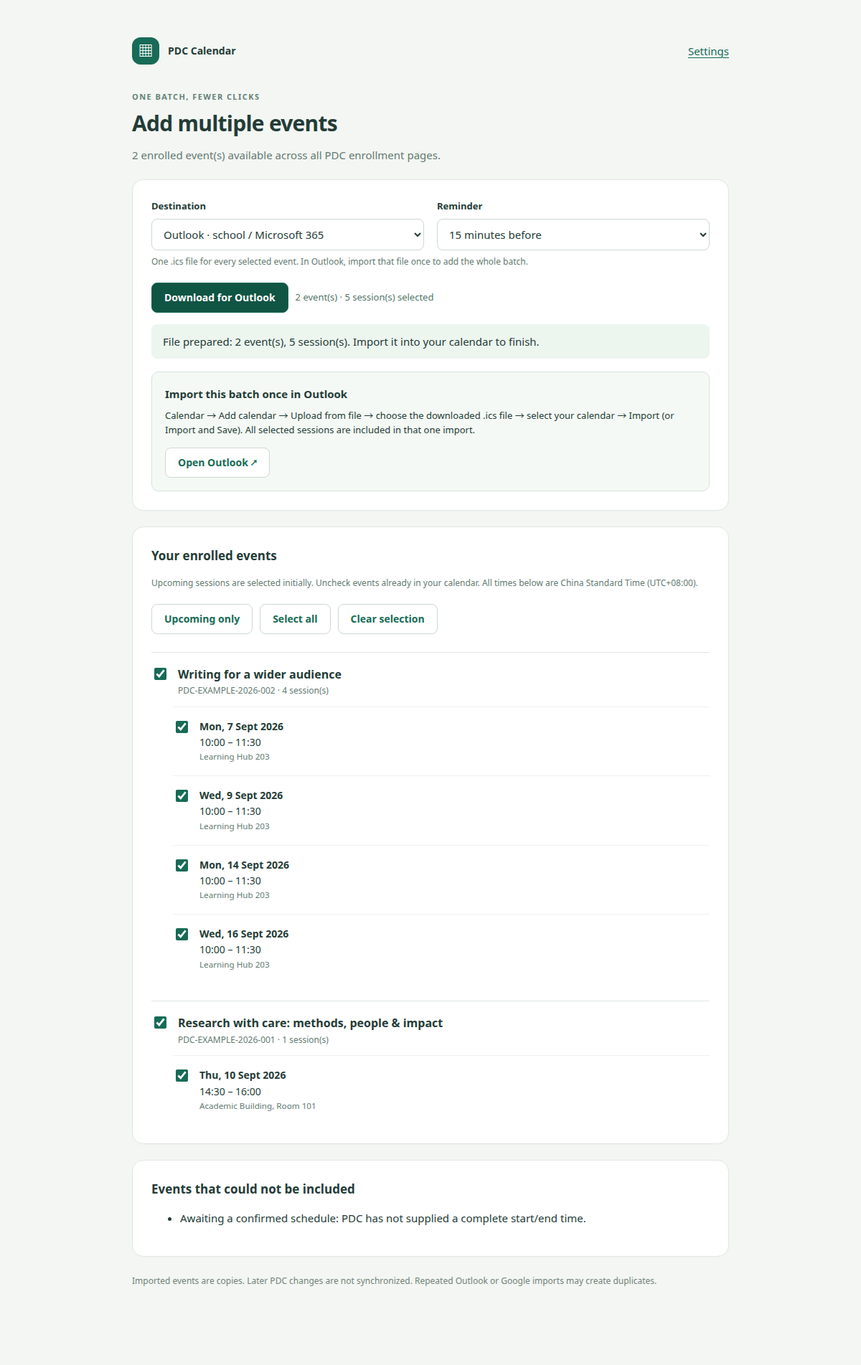
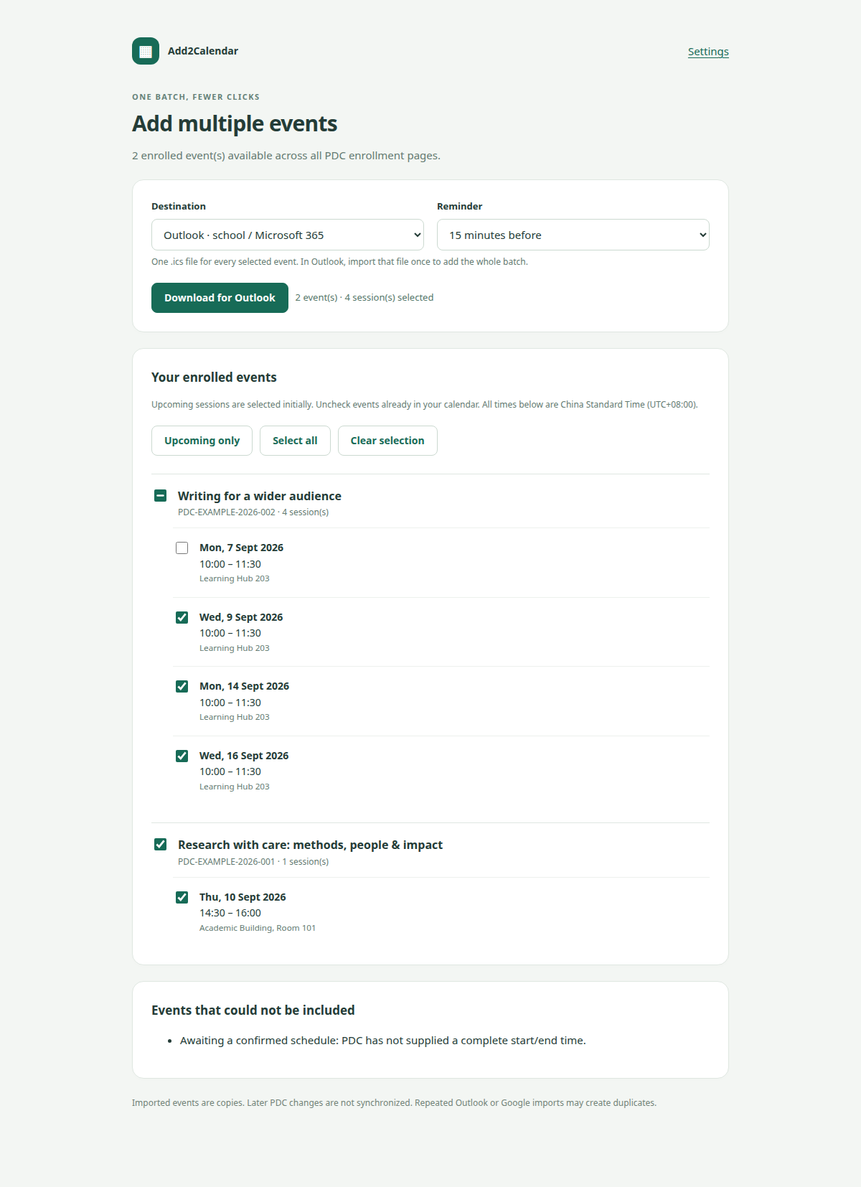
refactor(brand): rename to Add2Calendar

diff --git a/site/zh/index.html b/site/zh/index.html
@@ -4,8 +4,8 @@
     <meta charset="utf-8" />
     <meta name="viewport" content="width=device-width, initial-scale=1" />
     <meta name="theme-color" content="#f7f4ee" />
-    <meta name="description" content="将香港科技大学（广州）PDC 活动添加到 Outlook、Google 日历、Nextcloud 或 iCalendar 文件。" />
-    <title>PDC · 添加到日历</title>
+    <meta name="description" content="Add2Calendar 是香港科技大学（广州）的日历导出扩展，目前支持已报名的 PDC 活动。" />
+    <title>Add2Calendar · 香港科技大学（广州）</title>
     <link rel="icon" href="/assets/favicon.svg" type="image/svg+xml" />
     <link rel="stylesheet" href="/assets/site.css" />
     <link rel="alternate" hreflang="en" href="/" />
@@ -16,16 +16,16 @@
     <a class="skip-link" href="#main">跳到主要内容</a>
 
     <header class="site-header">
-      <a class="brand" href="/zh/" aria-label="PDC 添加到日历首页">
+      <a class="brand" href="/zh/" aria-label="Add2Calendar 首页">
         <span class="brand-mark" aria-hidden="true">
           <svg viewBox="0 0 32 32"><rect x="4" y="6" width="24" height="22" rx="6" /><path d="M4 13h24M10 3v6M22 3v6M11 18h4v4h-4zM19 18h4v4h-4z" /></svg>
         </span>
-        <span>PDC <span class="brand-muted">· 添加到日历</span></span>
+        <span>Add2Calendar <span class="brand-muted">· 香港科技大学（广州）</span></span>
       </a>
       <nav aria-label="主要导航">
         <a href="#how-it-works">使用方法</a>
         <a href="#calendars">支持的日历</a>
-        <a href="https://github.com/LueApp/pdc-calendar-extension" target="_blank" rel="noopener noreferrer">GitHub</a>
+        <a href="https://github.com/LueApp/add2calendar" target="_blank" rel="noopener noreferrer">GitHub</a>
         <a class="language-link" href="/" lang="en" hreflang="en">English</a>
       </nav>
     </header>
@@ -33,15 +33,15 @@
     <main id="main">
       <section class="hero" aria-labelledby="hero-title">
         <div class="hero-copy">
-          <p class="eyebrow"><span></span> 为香港科技大学（广州）打造的小型 Chrome 扩展</p>
-          <h1 id="hero-title">几次点击，将 PDC 活动加入你的日历。</h1>
+          <p class="eyebrow"><span></span> 香港科技大学（广州）日历导出工具</p>
+          <h1 id="hero-title">把校园活动放进你每天都会看的日历。</h1>
           <p class="hero-lede">把已报名的讲座添加到 Outlook、Google 日历、Nextcloud 或 <code>.ics</code> 文件——单个添加或批量导出都可以。</p>
           <div class="hero-actions">
-            <a class="button button-primary" href="/downloads/pdc-calendar-0.2.0.zip" download>
+            <a class="button button-primary" href="/downloads/add2calendar-0.2.0.zip" download>
               <svg viewBox="0 0 24 24" aria-hidden="true"><path d="M12 3v12m0 0 5-5m-5 5-5-5M5 21h14" /></svg>
               下载 v0.2.0
             </a>
-            <a class="button button-secondary" href="https://github.com/LueApp/pdc-calendar-extension" target="_blank" rel="noopener noreferrer">在 GitHub 查看 <span aria-hidden="true">↗</span></a>
+            <a class="button button-secondary" href="https://github.com/LueApp/add2calendar" target="_blank" rel="noopener noreferrer">在 GitHub 查看 <span aria-hidden="true">↗</span></a>
           </div>
           <ul class="hero-facts" aria-label="运行要求和项目信息"><li>Chrome 120+</li><li>无需注册账号</li><li>MIT 开源许可</li></ul>
         </div>
@@ -76,7 +76,7 @@
       </section>
 
       <section class="preview-section section" aria-labelledby="preview-title">
-        <div class="preview-frame"><img src="/assets/batch-preview.png" alt="批量活动预览，显示两个虚构研讨会和 Outlook 导入选项" loading="lazy" width="1260" height="840" /></div>
+        <div class="preview-frame"><img src="/assets/batch-preview.png" alt="批量活动预览，显示两个虚构研讨会和 Outlook 导入选项" loading="lazy" width="1200" height="1654" /></div>
         <div class="preview-copy">
           <p class="eyebrow"><span></span> 批量导出</p><h2 id="preview-title">把一周的活动都带走。</h2>
           <p>选择需要的活动和场次，再生成一个整洁的日历文件。每个活动会保留自己的名称、时间、地点、讲者和 PDC 来源链接。</p>
@@ -97,17 +97,17 @@
       </section>
 
       <section class="download-section" aria-labelledby="download-title">
-        <div><p class="eyebrow light"><span></span> 版本 0.2.0</p><h2 id="download-title">让下一场 PDC 活动出现在你的日历里。</h2><p>免费、开源，为香港科技大学（广州）学生打造。</p></div>
+        <div><p class="eyebrow light"><span></span> 版本 0.2.0</p><h2 id="download-title">让下一场校园活动出现在你的日历里。</h2><p>免费、开源，为香港科技大学（广州）学生打造。</p></div>
         <div class="download-actions">
-          <a class="button button-light" href="/downloads/pdc-calendar-0.2.0.zip" download><svg viewBox="0 0 24 24" aria-hidden="true"><path d="M12 3v12m0 0 5-5m-5 5-5-5M5 21h14" /></svg>下载扩展</a>
-          <a href="https://github.com/LueApp/pdc-calendar-extension/releases" target="_blank" rel="noopener noreferrer">查看全部版本 ↗</a>
+          <a class="button button-light" href="/downloads/add2calendar-0.2.0.zip" download><svg viewBox="0 0 24 24" aria-hidden="true"><path d="M12 3v12m0 0 5-5m-5 5-5-5M5 21h14" /></svg>下载扩展</a>
+          <a href="https://github.com/LueApp/add2calendar/releases" target="_blank" rel="noopener noreferrer">查看全部版本 ↗</a>
         </div>
       </section>
     </main>
 
     <footer>
       <a class="footer-brand" href="https://lue-app.com/" target="_blank" rel="me noopener noreferrer"><span class="footer-mark">L</span><span><strong>看看 Lue 的其他作品</strong><small>为日常工作做一些小工具。</small></span><span aria-hidden="true">↗</span></a>
-      <div class="footer-links"><a href="https://github.com/LueApp/pdc-calendar-extension" target="_blank" rel="noopener noreferrer">GitHub</a><a href="https://github.com/LueApp/pdc-calendar-extension/blob/main/PRIVACY.zh-CN.md" target="_blank" rel="noopener noreferrer">隐私说明</a><a href="https://github.com/LueApp/pdc-calendar-extension/issues" target="_blank" rel="noopener noreferrer">反馈问题</a></div>
+      <div class="footer-links"><a href="https://github.com/LueApp/add2calendar" target="_blank" rel="noopener noreferrer">GitHub</a><a href="https://github.com/LueApp/add2calendar/blob/main/PRIVACY.zh-CN.md" target="_blank" rel="noopener noreferrer">隐私说明</a><a href="https://github.com/LueApp/add2calendar/issues" target="_blank" rel="noopener noreferrer">反馈问题</a></div>
     </footer>
   </body>
 </html>

diff --git a/site/index.html b/site/index.html
@@ -6,9 +6,9 @@
     <meta name="theme-color" content="#f7f4ee" />
     <meta
       name="description"
-      content="Add HKUST(GZ) PDC seminars to Outlook, Google Calendar, Nextcloud, or an iCalendar file."
+      content="Add2Calendar is a focused calendar export extension for HKUST(GZ), with support for enrolled PDC events."
     />
-    <title>PDC · Add to Calendar</title>
+    <title>Add2Calendar · HKUST(GZ)</title>
     <link rel="icon" href="/assets/favicon.svg" type="image/svg+xml" />
     <link rel="stylesheet" href="/assets/site.css" />
     <link rel="alternate" hreflang="en" href="/" />
@@ -19,19 +19,19 @@
     <a class="skip-link" href="#main">Skip to content</a>
 
     <header class="site-header">
-      <a class="brand" href="/" aria-label="PDC Add to Calendar home">
+      <a class="brand" href="/" aria-label="Add2Calendar home">
         <span class="brand-mark" aria-hidden="true">
           <svg viewBox="0 0 32 32">
             <rect x="4" y="6" width="24" height="22" rx="6" />
             <path d="M4 13h24M10 3v6M22 3v6M11 18h4v4h-4zM19 18h4v4h-4z" />
           </svg>
         </span>
-        <span>PDC <span class="brand-muted">· Add to Calendar</span></span>
+        <span>Add2Calendar <span class="brand-muted">· HKUST(GZ)</span></span>
       </a>
       <nav aria-label="Primary navigation">
         <a href="#how-it-works">How it works</a>
         <a href="#calendars">Calendars</a>
-        <a href="https://github.com/LueApp/pdc-calendar-extension" target="_blank" rel="noopener noreferrer">GitHub</a>
+        <a href="https://github.com/LueApp/add2calendar" target="_blank" rel="noopener noreferrer">GitHub</a>
         <a class="language-link" href="/zh/" lang="zh-CN" hreflang="zh-CN">中文</a>
       </nav>
     </header>
@@ -39,17 +39,17 @@
     <main id="main">
       <section class="hero" aria-labelledby="hero-title">
         <div class="hero-copy">
-          <p class="eyebrow"><span></span> A small Chrome extension for HKUST(GZ)</p>
-          <h1 id="hero-title">From PDC to your calendar, in a few clicks.</h1>
+          <p class="eyebrow"><span></span> Calendar export for HKUST(GZ)</p>
+          <h1 id="hero-title">Keep campus events where you’ll actually see them.</h1>
           <p class="hero-lede">
             Add enrolled seminars to Outlook, Google Calendar, Nextcloud, or an <code>.ics</code> file—one at a time or in a batch.
           </p>
           <div class="hero-actions">
-            <a class="button button-primary" href="/downloads/pdc-calendar-0.2.0.zip" download>
+            <a class="button button-primary" href="/downloads/add2calendar-0.2.0.zip" download>
               <svg viewBox="0 0 24 24" aria-hidden="true"><path d="M12 3v12m0 0 5-5m-5 5-5-5M5 21h14" /></svg>
               Download v0.2.0
             </a>
-            <a class="button button-secondary" href="https://github.com/LueApp/pdc-calendar-extension" target="_blank" rel="noopener noreferrer">
+            <a class="button button-secondary" href="https://github.com/LueApp/add2calendar" target="_blank" rel="noopener noreferrer">
               View on GitHub <span aria-hidden="true">↗</span>
             </a>
           </div>
@@ -120,7 +120,7 @@
 
       <section class="preview-section section" aria-labelledby="preview-title">
         <div class="preview-frame">
-          <img src="/assets/batch-preview.png" alt="Batch event preview showing two fictional seminars and Outlook import options" loading="lazy" width="1260" height="840" />
+          <img src="/assets/batch-preview.png" alt="Batch event preview showing two fictional seminars and Outlook import options" loading="lazy" width="1200" height="1654" />
         </div>
         <div class="preview-copy">
           <p class="eyebrow"><span></span> Batch export</p>
@@ -155,15 +155,15 @@
       <section class="download-section" aria-labelledby="download-title">
         <div>
           <p class="eyebrow light"><span></span> Version 0.2.0</p>
-          <h2 id="download-title">Put your next PDC event where you’ll see it.</h2>
+          <h2 id="download-title">Put your next campus event where you’ll see it.</h2>
           <p>Free, open source, and built for HKUST(GZ) students.</p>
         </div>
         <div class="download-actions">
-          <a class="button button-light" href="/downloads/pdc-calendar-0.2.0.zip" download>
+          <a class="button button-light" href="/downloads/add2calendar-0.2.0.zip" download>
             <svg viewBox="0 0 24 24" aria-hidden="true"><path d="M12 3v12m0 0 5-5m-5 5-5-5M5 21h14" /></svg>
             Download extension
           </a>
-          <a href="https://github.com/LueApp/pdc-calendar-extension/releases" target="_blank" rel="noopener noreferrer">All releases ↗</a>
+          <a href="https://github.com/LueApp/add2calendar/releases" target="_blank" rel="noopener noreferrer">All releases ↗</a>
         </div>
       </section>
     </main>
@@ -175,9 +175,9 @@
         <span aria-hidden="true">↗</span>
       </a>
       <div class="footer-links">
-        <a href="https://github.com/LueApp/pdc-calendar-extension" target="_blank" rel="noopener noreferrer">GitHub</a>
-        <a href="https://github.com/LueApp/pdc-calendar-extension/blob/main/PRIVACY.md" target="_blank" rel="noopener noreferrer">Privacy</a>
-        <a href="https://github.com/LueApp/pdc-calendar-extension/issues" target="_blank" rel="noopener noreferrer">Report an issue</a>
+        <a href="https://github.com/LueApp/add2calendar" target="_blank" rel="noopener noreferrer">GitHub</a>
+        <a href="https://github.com/LueApp/add2calendar/blob/main/PRIVACY.md" target="_blank" rel="noopener noreferrer">Privacy</a>
+        <a href="https://github.com/LueApp/add2calendar/issues" target="_blank" rel="noopener noreferrer">Report an issue</a>
       </div>
     </footer>
   </body>

diff --git a/extension/options.html b/extension/options.html
@@ -1,7 +1,7 @@
 <!doctype html>
-<html lang="en"><head><meta charset="utf-8"><meta name="viewport" content="width=device-width,initial-scale=1"><title>Settings · PDC Calendar</title><link rel="stylesheet" href="styles.css"></head>
+<html lang="en"><head><meta charset="utf-8"><meta name="viewport" content="width=device-width,initial-scale=1"><title>Settings · Add2Calendar</title><link rel="stylesheet" href="styles.css"></head>
 <body><main>
-  <header><div class="brand"><span class="mark" aria-hidden="true">▦</span>PDC Calendar</div><a href="https://pdc.hkust-gz.edu.cn/enrollment-records" target="_blank" rel="noopener">Open PDC ↗</a></header>
+  <header><div class="brand"><span class="mark" aria-hidden="true">▦</span>Add2Calendar</div><a href="https://pdc.hkust-gz.edu.cn/enrollment-records" target="_blank" rel="noopener">Open PDC ↗</a></header>
   <p class="eyebrow">Your calendar, your choice</p><h1>A place for your next seminar.</h1>
   <p class="muted">Sign into PDC as usual. An “Add to calendar” button will appear beside your enrolled events. Choose where to save each event.</p>
   <section class="card"><h2>Default preferences</h2><div class="grid">
@@ -12,7 +12,7 @@
     <p class="muted">Save directly to a calendar you own or can edit. Each person can use their own Nextcloud server.</p>
     <form id="nextcloud-form">
       <div class="field"><label for="calendar-url">Private calendar URL</label><input id="calendar-url" type="url" required placeholder="https://cloud.example.com/remote.php/dav/calendars/username/pdc-seminars/" autocomplete="off"><p class="help">In Nextcloud Calendar, open the ⋯ menu beside your target calendar and copy its private link. Use the link for that calendar, not a public share or the general Calendar page.</p></div>
-      <div class="grid"><div class="field"><label for="username">Nextcloud username</label><input id="username" required autocomplete="off" spellcheck="false"></div><div class="field"><label for="app-password">Nextcloud app password</label><input id="app-password" type="password" autocomplete="new-password" placeholder="Create in Nextcloud → Settings → Security"><p class="help" id="password-help">Use a separate app password for PDC Calendar.</p></div></div>
+      <div class="grid"><div class="field"><label for="username">Nextcloud username</label><input id="username" required autocomplete="off" spellcheck="false"></div><div class="field"><label for="app-password">Nextcloud app password</label><input id="app-password" type="password" autocomplete="new-password" placeholder="Create in Nextcloud → Settings → Security"><p class="help" id="password-help">Use a separate app password for Add2Calendar.</p></div></div>
       <p class="help">Chrome will ask for access only to the Nextcloud server you enter. The app password is stored locally in this extension and is not synced to your Google account or exposed to the PDC page.</p>
       <div class="actions"><button type="submit" id="connect">Save Nextcloud connection</button><button type="button" id="disconnect" class="secondary">Forget connection</button></div>
     </form>

diff --git a/extension/event.html b/extension/event.html
@@ -1,7 +1,7 @@
 <!doctype html>
-<html lang="en"><head><meta charset="utf-8"><meta name="viewport" content="width=device-width,initial-scale=1"><title>Add to calendar · PDC</title><link rel="stylesheet" href="styles.css"></head>
+<html lang="en"><head><meta charset="utf-8"><meta name="viewport" content="width=device-width,initial-scale=1"><title>Add to calendar · Add2Calendar</title><link rel="stylesheet" href="styles.css"></head>
 <body><main>
-  <header><div class="brand"><span class="mark" aria-hidden="true">▦</span>PDC Calendar</div><a href="options.html" target="_blank" rel="noopener">Settings</a></header>
+  <header><div class="brand"><span class="mark" aria-hidden="true">▦</span>Add2Calendar</div><a href="options.html" target="_blank" rel="noopener">Settings</a></header>
   <p class="eyebrow">Make time for learning</p><h1 id="title">Preparing your event…</h1><p class="muted" id="subtitle">Loading seminar details from PDC.</p>
   <div id="content" hidden>
     <section class="card"><div class="grid">

diff --git a/extension/batch.html b/extension/batch.html
@@ -1,7 +1,7 @@
 <!doctype html>
-<html lang="en"><head><meta charset="utf-8"><meta name="viewport" content="width=device-width,initial-scale=1"><title>Add multiple events · PDC</title><link rel="stylesheet" href="styles.css"></head>
+<html lang="en"><head><meta charset="utf-8"><meta name="viewport" content="width=device-width,initial-scale=1"><title>Add multiple events · Add2Calendar</title><link rel="stylesheet" href="styles.css"></head>
 <body><main>
-  <header><div class="brand"><span class="mark" aria-hidden="true">▦</span>PDC Calendar</div><a href="options.html" target="_blank" rel="noopener">Settings</a></header>
+  <header><div class="brand"><span class="mark" aria-hidden="true">▦</span>Add2Calendar</div><a href="options.html" target="_blank" rel="noopener">Settings</a></header>
   <p class="eyebrow">One batch, fewer clicks</p><h1>Add multiple events</h1><p class="muted" id="subtitle">Loading your enrollments…</p>
   <div id="content" hidden>
     <section class="card"><div class="grid">

diff --git a/extension/batch.js b/extension/batch.js
@@ -57,7 +57,7 @@ async function add() {
   if (provider !== 'nextcloud') {
     const count = entries.reduce((n, entry) => n + entry.sessions.length, 0);
     const url = URL.createObjectURL(new Blob([makeCalendarICS(entries, reminder)], { type: 'text/calendar;charset=utf-8' }));
-    const link = document.createElement('a'); link.href = url; link.download = `PDC-events-${new Date().toISOString().slice(0, 10)}.ics`; link.click();
+    const link = document.createElement('a'); link.href = url; link.download = `Add2Calendar-events-${new Date().toISOString().slice(0, 10)}.ics`; link.click();
     setTimeout(() => URL.revokeObjectURL(url), 30000);
     status(`File prepared: ${entries.length} event(s), ${count} session(s). Import it into your calendar to finish.`);
     showImportGuide(provider);

diff --git a/extension/options.js b/extension/options.js
@@ -15,7 +15,7 @@ async function load() {
   $('calendar-url').value = saved?.calendarUrl || '';
   $('username').value = saved?.username || '';
   $('app-password').value = '';
-  $('password-help').textContent = saved?.appPassword ? 'An app password is saved. Leave blank to keep it for this same server and username.' : 'Use a separate app password for PDC Calendar.';
+  $('password-help').textContent = saved?.appPassword ? 'An app password is saved. Leave blank to keep it for this same server and username.' : 'Use a separate app password for Add2Calendar.';
   $('disconnect').disabled = !saved;
 }
 

diff --git a/scripts/package.py b/scripts/package.py
@@ -4,7 +4,7 @@ import json
 
 root = Path(__file__).resolve().parent.parent
 version = json.loads((root / 'extension' / 'manifest.json').read_text())['version']
-target = root / 'dist' / f'pdc-calendar-{version}.zip'
+target = root / 'dist' / f'add2calendar-{version}.zip'
 target.parent.mkdir(exist_ok=True)
 with ZipFile(target, 'w', ZIP_DEFLATED) as archive:
     for file in sorted((root / 'extension').rglob('*')):

diff --git a/README.zh-CN.md b/README.zh-CN.md
@@ -1,10 +1,10 @@
-# PDC · 添加到日历
+# Add2Calendar
 
 [English](README.md) | **简体中文**
 
-这是一个用于[香港科技大学（广州）PDC 系统](https://pdc.hkust-gz.edu.cn/enrollment-records)的 Chrome 扩展。它提供 **Add to calendar（添加到日历）** 和 **Add multiple events（批量添加活动）** 按钮，将已报名的讲座、研讨会等活动加入 Outlook、Google 日历、Nextcloud，或导出为 `.ics` 日历文件。
+**香港科技大学（广州）的日历导出工具。** Add2Calendar 是一个 Chrome 扩展，帮助你把校园安排放进日常使用的日历。目前它会在 [PDC 系统](https://pdc.hkust-gz.edu.cn/enrollment-records)中添加 **Add to calendar（添加到日历）** 和 **Add multiple events（批量添加活动）** 按钮，将已报名的讲座、研讨会等活动加入 Outlook、Google 日历、Nextcloud，或导出为 `.ics` 文件。
 
-**[下载 v0.2.0](https://github.com/LueApp/pdc-calendar-extension/releases/download/v0.2.0/pdc-calendar-0.2.0.zip)** · [全部版本](https://github.com/LueApp/pdc-calendar-extension/releases) · [反馈问题](https://github.com/LueApp/pdc-calendar-extension/issues)
+**[下载最新版本](https://github.com/LueApp/add2calendar/releases/latest)** · [全部版本](https://github.com/LueApp/add2calendar/releases) · [反馈问题](https://github.com/LueApp/add2calendar/issues)
 
 ## 项目网站
 
@@ -35,7 +35,7 @@ npm run site:build
 
 需要 **Google Chrome 120 或更新版本**。普通使用者不需要安装 Node.js、Python，也不需要部署服务器。
 
-1. 从 [Releases 发布页面](https://github.com/LueApp/pdc-calendar-extension/releases/latest)下载 **`pdc-calendar-0.2.0.zip`**，解压到一个以后不会随意移动的文件夹。
+1. 从 [Releases 发布页面](https://github.com/LueApp/add2calendar/releases/latest)下载扩展 ZIP，解压到一个以后不会随意移动的文件夹。
 2. 在 Chrome 地址栏打开 `chrome://extensions`，开启右上角的**开发者模式**。
 3. 点击**加载已解压的扩展程序**，选择**直接包含 `manifest.json` 的文件夹**。
 4. 刷新 PDC 标签页，并正常登录。
@@ -43,7 +43,7 @@ npm run site:build
 
 | 下载方式 | 在 Chrome 中应选择的目录 |
 | --- | --- |
-| Release 附件 `pdc-calendar-0.2.0.zip` | 解压后的文件夹，其根目录直接包含 `manifest.json` |
+| Release 附件（`.zip`） | 解压后的文件夹，其根目录直接包含 `manifest.json` |
 | GitHub 的 **Code → Download ZIP**，或 `git clone` | 源码目录内的 `extension` 子文件夹 |
 
 **“清单文件缺失或不可读取”**表示 Chrome 无法在所选目录中直接找到 `manifest.json`。不要选择 ZIP 文件本身，也不要选择它的上一级目录。早期 v0.1.0 压缩包多包含了一层 `extension` 子文件夹。
@@ -81,7 +81,7 @@ npm run site:build
    https://cloud.example.com/remote.php/dav/calendars/USERNAME/CALENDAR/
    ```
 
-3. 在 Nextcloud 的**设置 → 安全**中创建名为 **PDC Calendar** 的应用密码。
+3. 在 Nextcloud 的**设置 → 安全**中创建名为 **Add2Calendar** 的应用密码。
 4. 通过扩展工具栏图标或预览中的 **Settings（设置）** 打开配置页，填写日历私有链接、Nextcloud 用户名和应用密码。
 5. 点击 **Save Nextcloud connection（保存 Nextcloud 连接）**，并允许 Chrome 访问所填写的服务器。
 6. 在单个活动或批量预览中选择 **Nextcloud**，勾选场次并点击添加按钮。
@@ -129,8 +129,8 @@ npm run site:build
 扩展本身没有运行时依赖，也不需要构建。开发环境需要 **Node.js 22+**、**npm** 和 **Python 3**；Playwright 仅用于浏览器测试。
 
 ```sh
-git clone https://github.com/LueApp/pdc-calendar-extension.git
-cd pdc-calendar-extension
+git clone https://github.com/LueApp/add2calendar.git
+cd add2calendar
 npm ci
 npm test
 npx playwright install chromium

diff --git a/README.md b/README.md
@@ -1,10 +1,10 @@
-# PDC · Add to Calendar
+# Add2Calendar
 
 **English** | [简体中文](README.zh-CN.md)
 
-A Chrome extension that adds **Add to calendar** and **Add multiple events** buttons to the [HKUST(GZ) PDC system](https://pdc.hkust-gz.edu.cn/enrollment-records). Add enrolled seminars to Outlook, Google Calendar, Nextcloud, or an `.ics` calendar file.
+**Calendar export for HKUST(GZ).** Add2Calendar is a Chrome extension that brings campus schedules to the calendar you already use. It currently adds **Add to calendar** and **Add multiple events** buttons to the [PDC system](https://pdc.hkust-gz.edu.cn/enrollment-records), letting you export enrolled seminars to Outlook, Google Calendar, Nextcloud, or an `.ics` file.
 
-**[Download v0.2.0](https://github.com/LueApp/pdc-calendar-extension/releases/download/v0.2.0/pdc-calendar-0.2.0.zip)** · [All releases](https://github.com/LueApp/pdc-calendar-extension/releases) · [Report an issue](https://github.com/LueApp/pdc-calendar-extension/issues)
+**[Download the latest release](https://github.com/LueApp/add2calendar/releases/latest)** · [All releases](https://github.com/LueApp/add2calendar/releases) · [Report an issue](https://github.com/LueApp/add2calendar/issues)
 
 ## Website
 
@@ -35,7 +35,7 @@ The deployable site is written to `web-dist/` and includes the current extension
 
 Requires **Google Chrome 120+**. No Node.js, Python, or server is needed for normal use.
 
-1. Download **`pdc-calendar-0.2.0.zip`** from [Releases](https://github.com/LueApp/pdc-calendar-extension/releases/latest) and extract it into a permanent folder.
+1. Download the extension ZIP from [Releases](https://github.com/LueApp/add2calendar/releases/latest) and extract it into a permanent folder.
 2. Open `chrome://extensions` in Chrome and enable **Developer mode**.
 3. Click **Load unpacked**. Select the folder that **directly contains `manifest.json`**.
 4. Reload PDC and sign in normally.
@@ -43,7 +43,7 @@ Requires **Google Chrome 120+**. No Node.js, Python, or server is needed for nor
 
 | How you downloaded it | Folder to select in Chrome |
 | --- | --- |
-| Release asset `pdc-calendar-0.2.0.zip` | The extracted folder; `manifest.json` is at its root |
+| Release asset (`.zip`) | The extracted folder; `manifest.json` is at its root |
 | GitHub **Code → Download ZIP**, or `git clone` | The `extension` subfolder inside the source checkout |
 
 **“Manifest file is missing or unreadable”** means Chrome cannot find `manifest.json` directly inside the selected folder. Do not select the ZIP itself or a parent folder. Early v0.1.0 ZIPs used an extra `extension` subfolder.
@@ -81,7 +81,7 @@ Each person uses their own account. Outlook and Google sign-in happens on their 
    https://cloud.example.com/remote.php/dav/calendars/USERNAME/CALENDAR/
    ```
 
-3. In Nextcloud **Settings → Security**, create an app password named **PDC Calendar**.
+3. In Nextcloud **Settings → Security**, create an app password named **Add2Calendar**.
 4. Open the extension’s **Settings** from its toolbar icon or preview. Enter the private calendar URL, Nextcloud username, and app password.
 5. Click **Save Nextcloud connection** and allow Chrome access to that server.
 6. In an event or batch preview, choose **Nextcloud**, select sessions, and click Add.
@@ -129,8 +129,8 @@ When reporting an issue, include the extension version and error text. Remove to
 The extension has no runtime dependencies or build step. Development uses **Node.js 22+**, **npm**, and **Python 3**. Playwright is used only for browser tests.
 
 ```sh
-git clone https://github.com/LueApp/pdc-calendar-extension.git
-cd pdc-calendar-extension
+git clone https://github.com/LueApp/add2calendar.git
+cd add2calendar
 npm ci
 npm test
 npx playwright install chromium

diff --git a/docs/releases/v0.2.0.md b/docs/releases/v0.2.0.md
@@ -13,7 +13,7 @@ PDC Calendar adds calendar buttons to HKUST(GZ) PDC enrollment pages. This relea
 
 Existing users should replace files in the same installation folder, then reload the extension and PDC. Added events are copies; later PDC changes are not synchronized. Repeated Outlook imports may create duplicates.
 
-[English guide](https://github.com/LueApp/pdc-calendar-extension/blob/main/README.md)
+[English guide](https://github.com/LueApp/add2calendar/blob/main/README.md)
 
 ## 简体中文
 
@@ -30,4 +30,4 @@ PDC Calendar 为香港科技大学（广州）PDC 报名页面添加日历按钮
 
 已安装用户请将新文件覆盖到原安装文件夹，再重新加载扩展并刷新 PDC。添加的是活动副本，后续 PDC 变更不会自动同步；重复导入 Outlook 可能产生重复条目。
 
-[中文指南](https://github.com/LueApp/pdc-calendar-extension/blob/main/README.zh-CN.md)
+[中文指南](https://github.com/LueApp/add2calendar/blob/main/README.zh-CN.md)

diff --git a/PRIVACY.zh-CN.md b/PRIVACY.zh-CN.md
@@ -2,7 +2,7 @@
 
 [English](PRIVACY.md) | **简体中文**
 
-PDC Calendar 在你的浏览器中运行。开发者不运营后端，不接收你的数据，也不使用数据统计或遥测服务。
+Add2Calendar 在你的浏览器中运行。开发者不运营后端，不接收你的数据，也不使用数据统计或遥测服务。
 
 ## 访问 PDC
 
